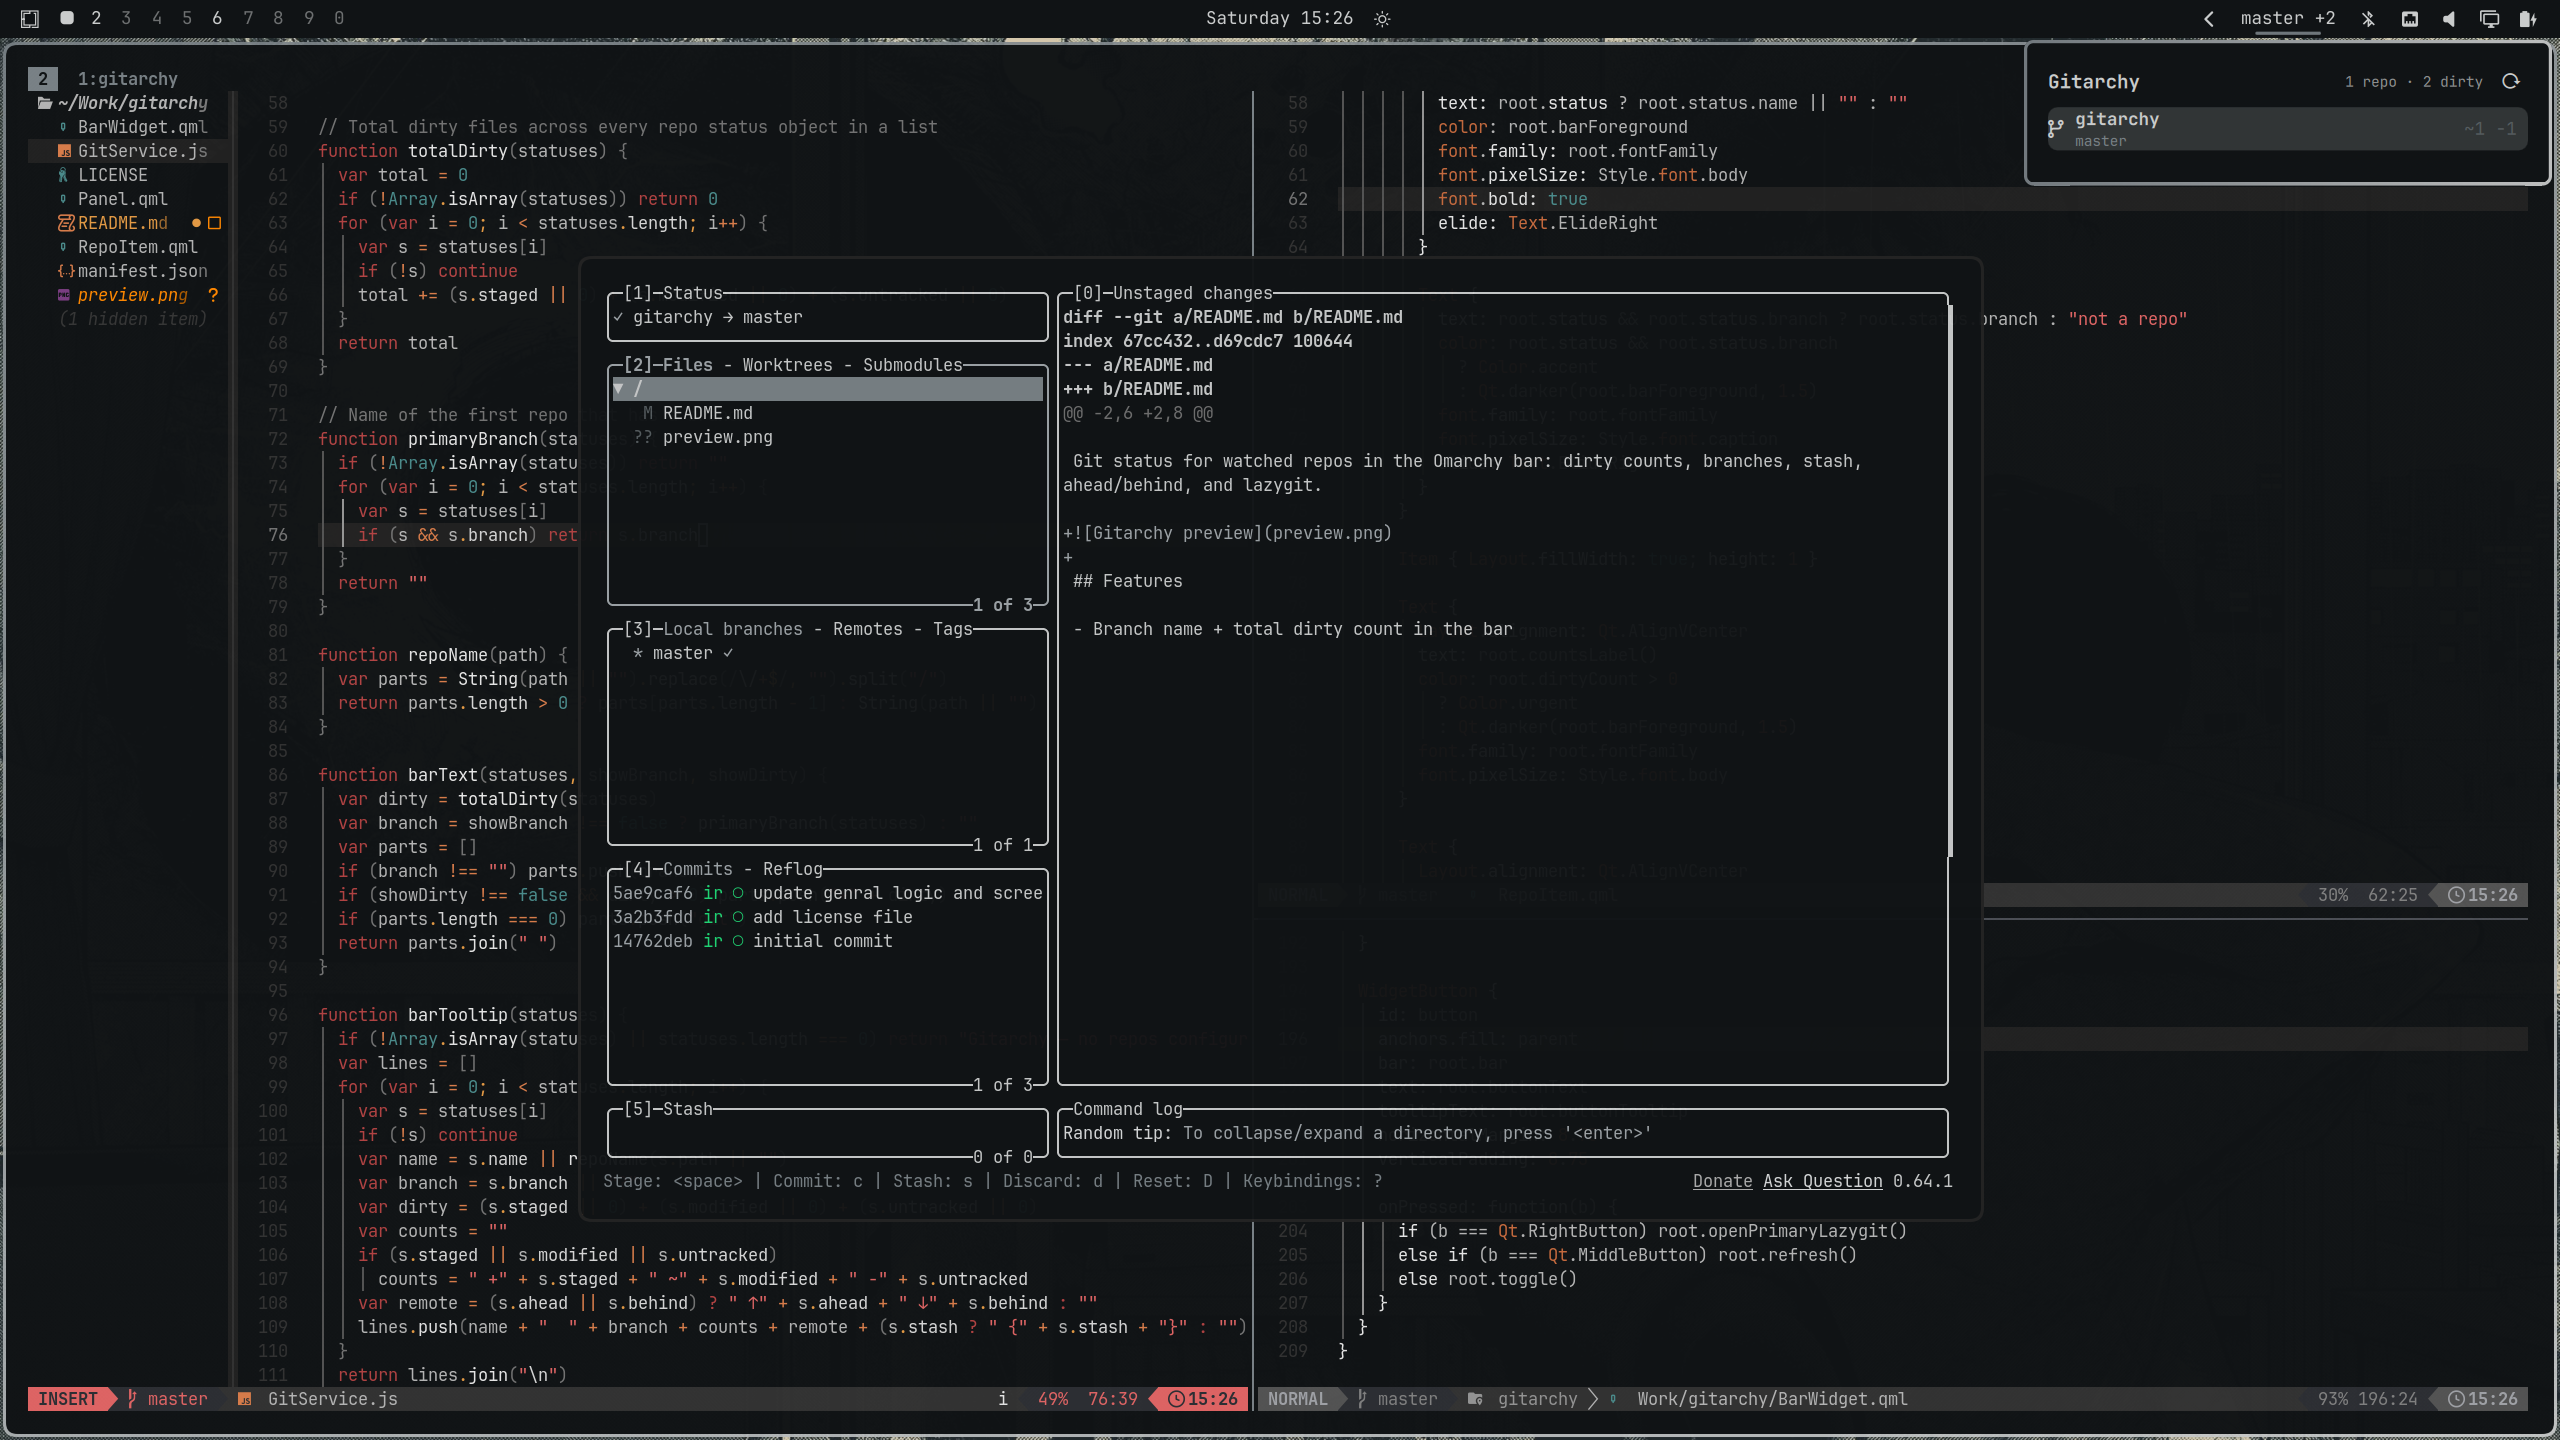
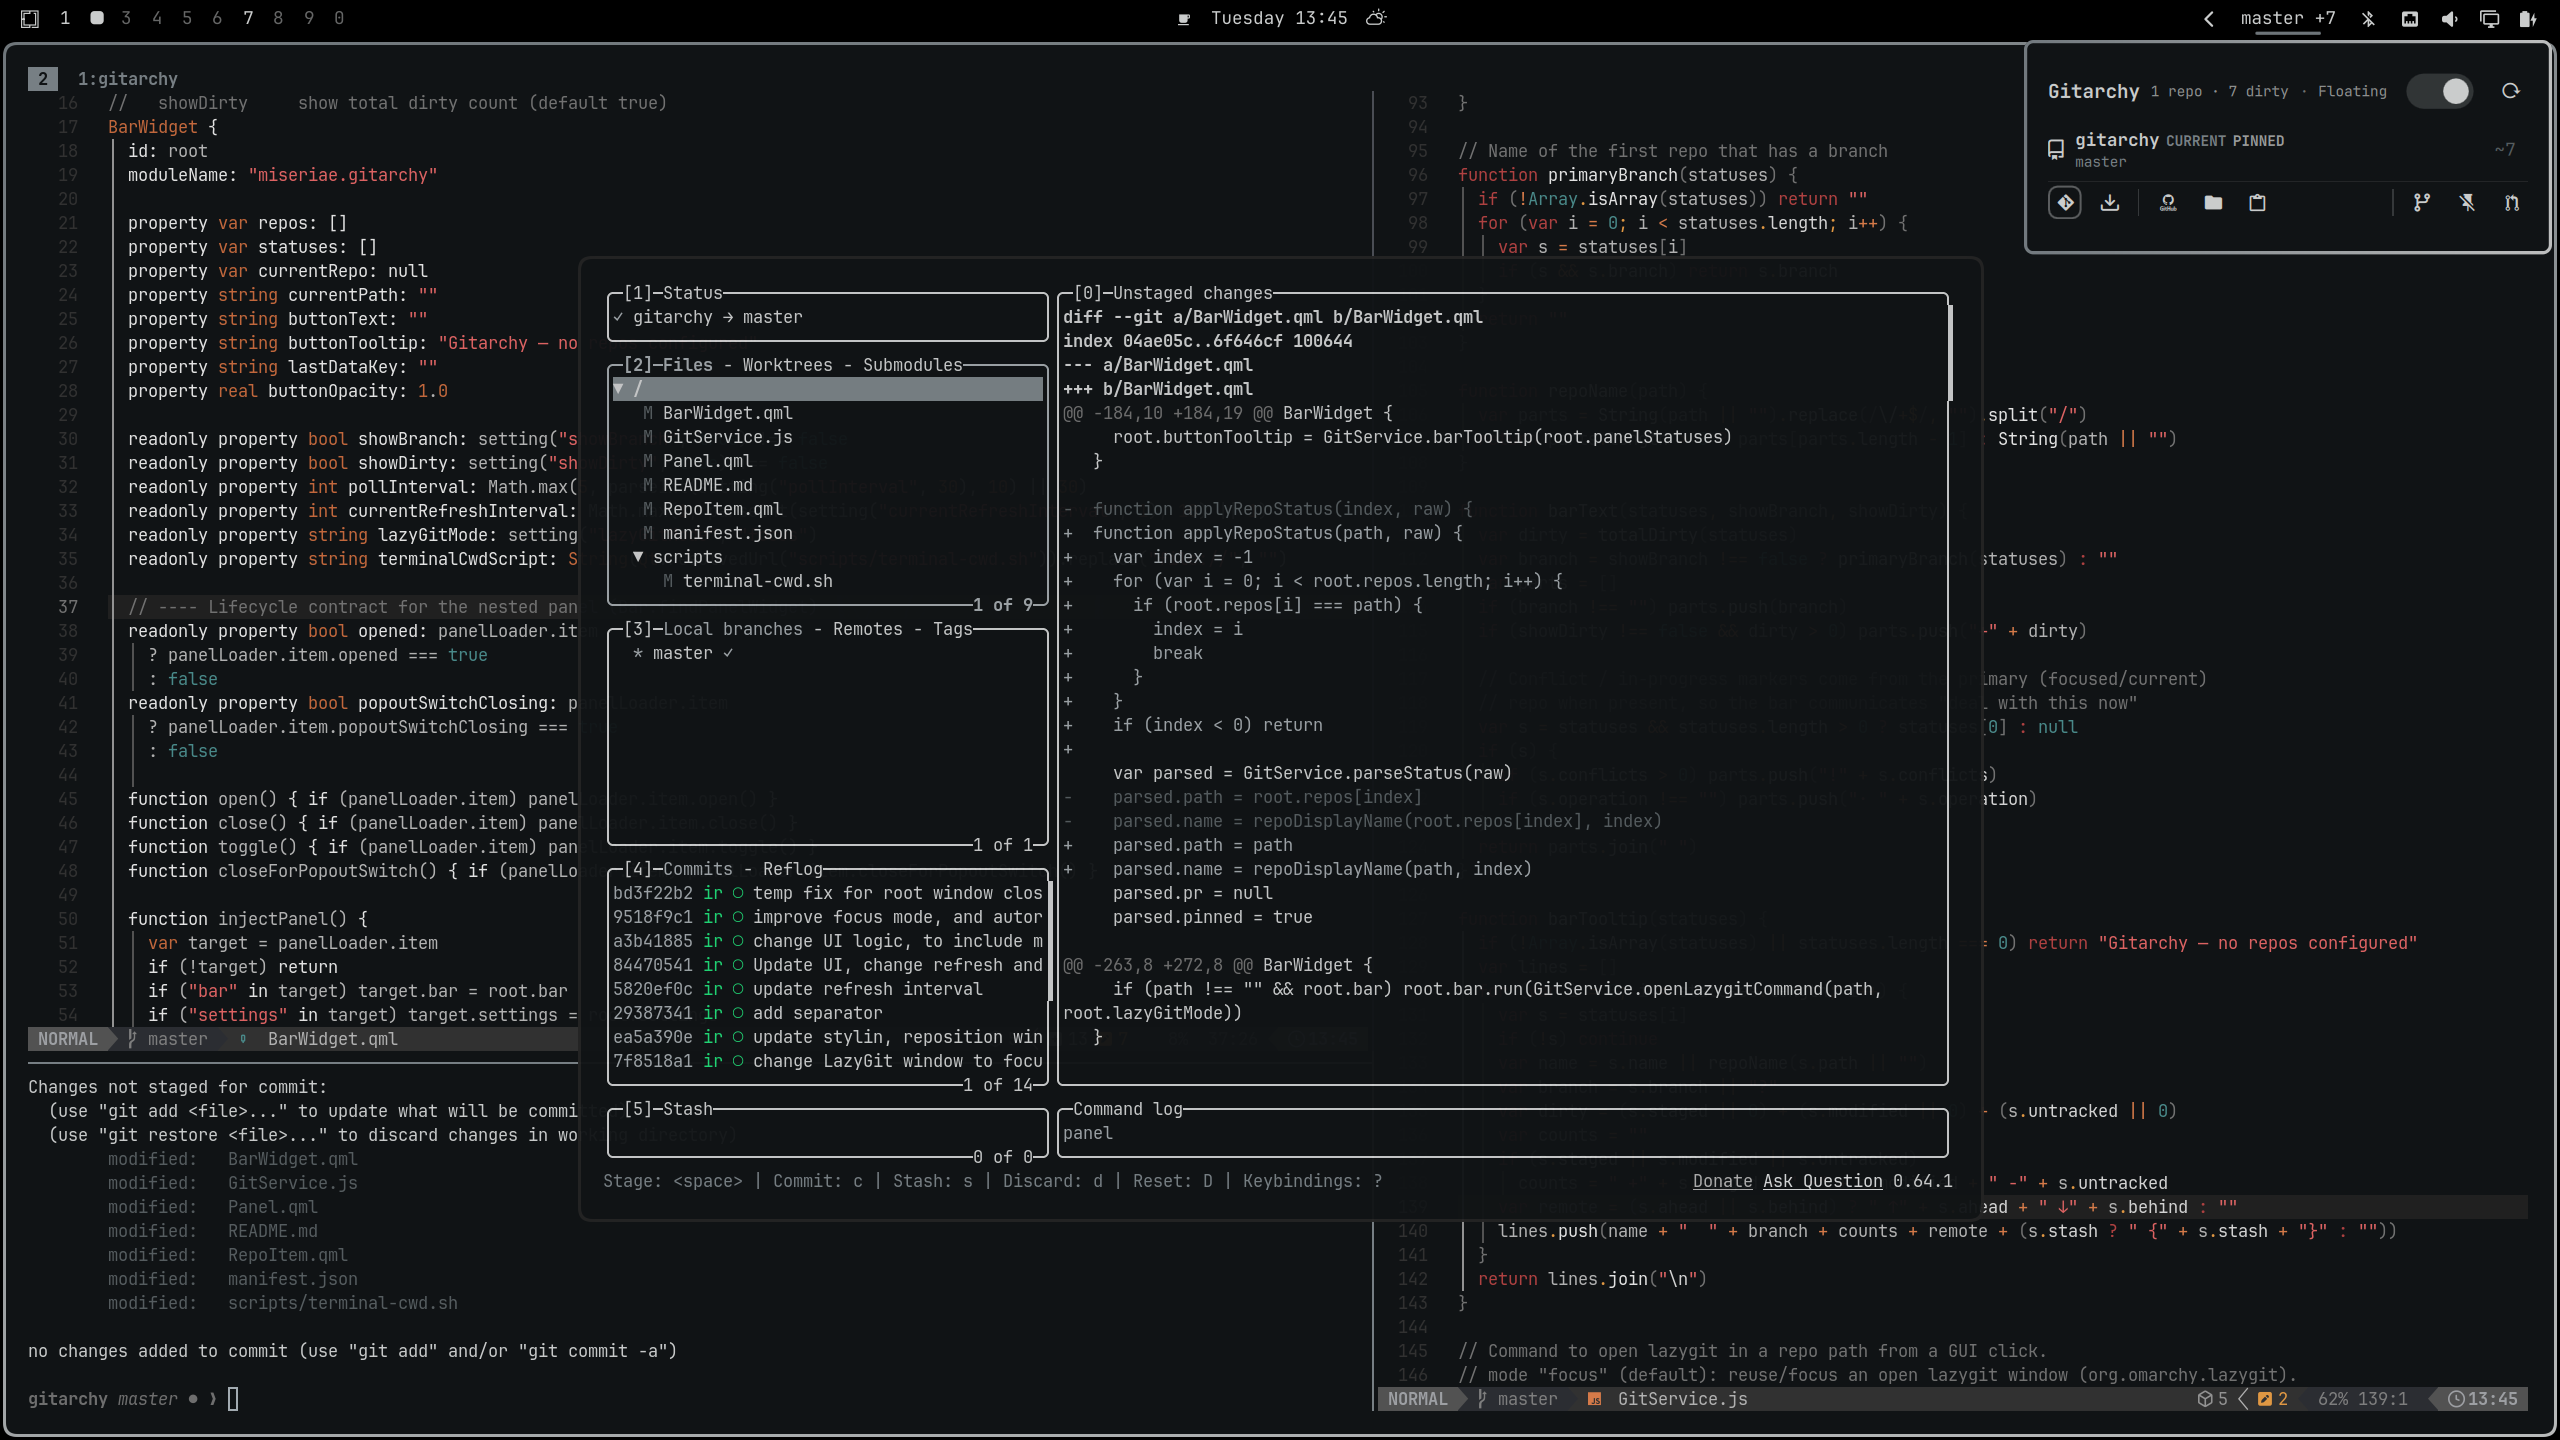
update preview and description

diff --git a/README.md b/README.md
@@ -8,8 +8,9 @@ stash, ahead/behind, and one-click access to lazygit.
 ## What you see
 
 - **Bar widget** — the primary branch and the total dirty count across all
-  watched repos (`master +3`). Hidden when there is nothing to show. When the
-  focused repo has conflicts or an operation in progress it shows a marker
+  watched repos (`master +3`). Its label is empty when there is nothing to show.
+  The widget is hidden in that state. When the focused repo has conflicts or an
+  operation in progress it shows a marker
   (`master !2` for conflicts, `master · merge` while merging/rebasing). Left-click
   opens the panel, right-click opens lazygit for the primary repo, middle-click
   refreshes immediately.
@@ -46,10 +47,20 @@ omarchy plugin remove miseriae.gitarchy
 ## Requirements
 
 - Omarchy with a bar (Quattro / Quickshell)
-- `git` in the runtime PATH
+- `bash`, `git`, `jq`, `hyprctl`, and standard POSIX utilities in the runtime PATH
+- `/proc` mounted and readable for focused-terminal detection
+- `kitty`/`kitten` and `tmux` are used when available to resolve terminal and pane cwd;
+  the helper falls back to the terminal process cwd when they are unavailable
 - Optional: `lazygit` for the "Open lazygit" actions
 - Optional: `gh` (GitHub CLI) for the PR status line
 - Optional: `wl-clipboard` (`wl-copy`) for the "Copy remote URL" action
+- `xdg-open` is used by the GitHub and file-manager actions
+
+The plugin runs inside Omarchy's long-running shell process with the current
+user's permissions. It can read terminal process information, execute `git`
+commands, launch applications, and update the widget's own entry in
+`~/.config/omarchy/shell.json` when you explicitly pin/unpin a repository or
+change the lazygit mode. It does not install packages or run a remote build.
 
 ## Configure
 
@@ -111,8 +122,9 @@ above.
 Each watched repo is polled on the configured interval. A small bash script
 runs `git status --porcelain=v1`, `git stash list`, and an upstream
 ahead/behind count, emitting a single JSON line the widget parses. Bar text is
-derived from those counts; nothing leaves the machine and no network calls are
-made (PR status is fetched on demand only, via `gh`, when you reveal it).
+derived from those counts. Normal polling is local, but the explicit **Fetch**
+action runs `git fetch --all --prune` and may contact every configured remote.
+The **Show PR** action runs `gh pr view` on demand and may contact GitHub.
 
 ## License
 
